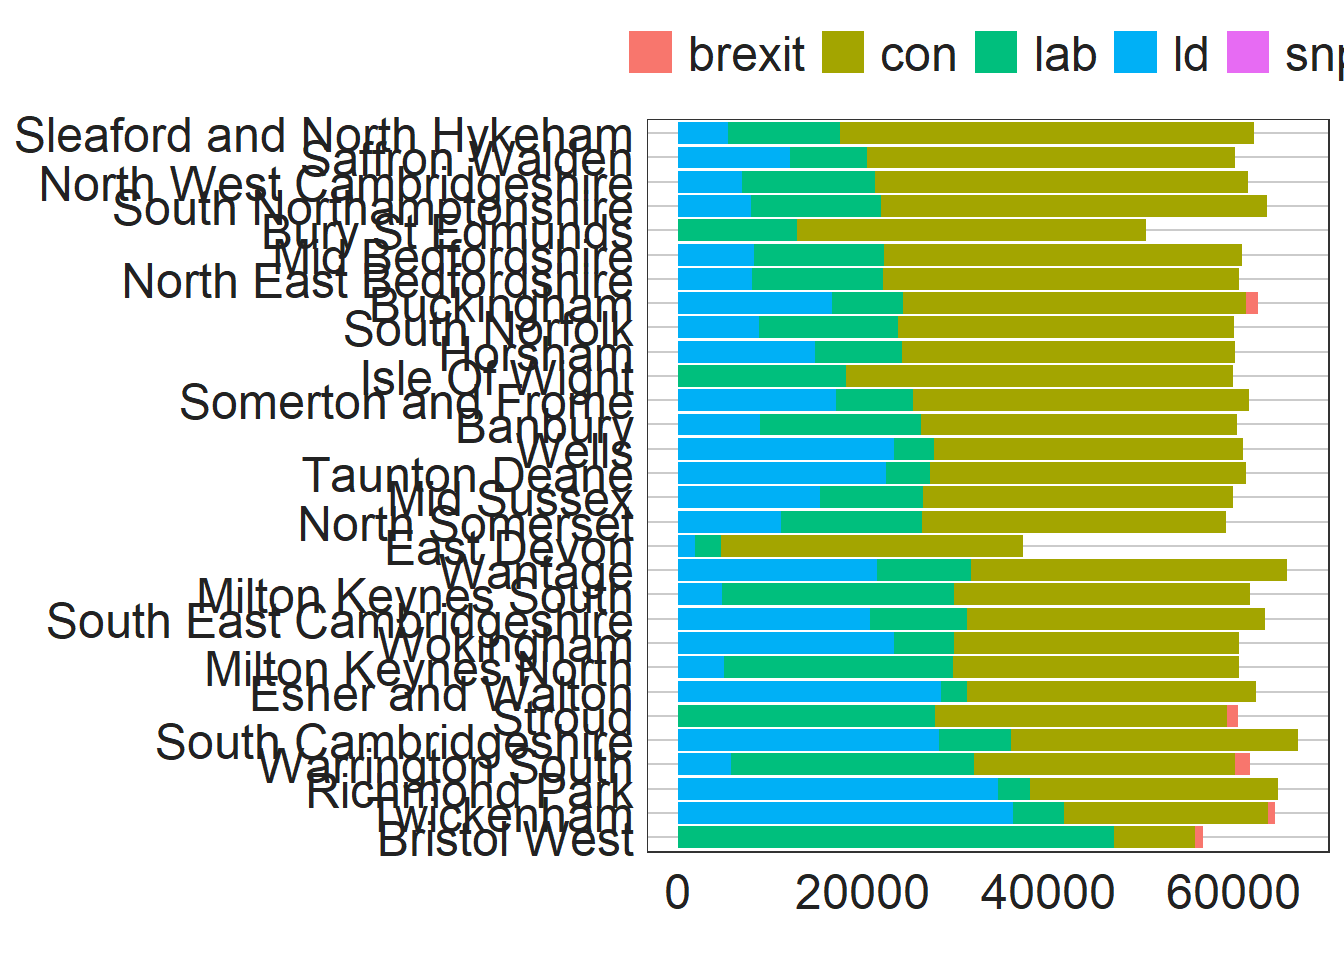
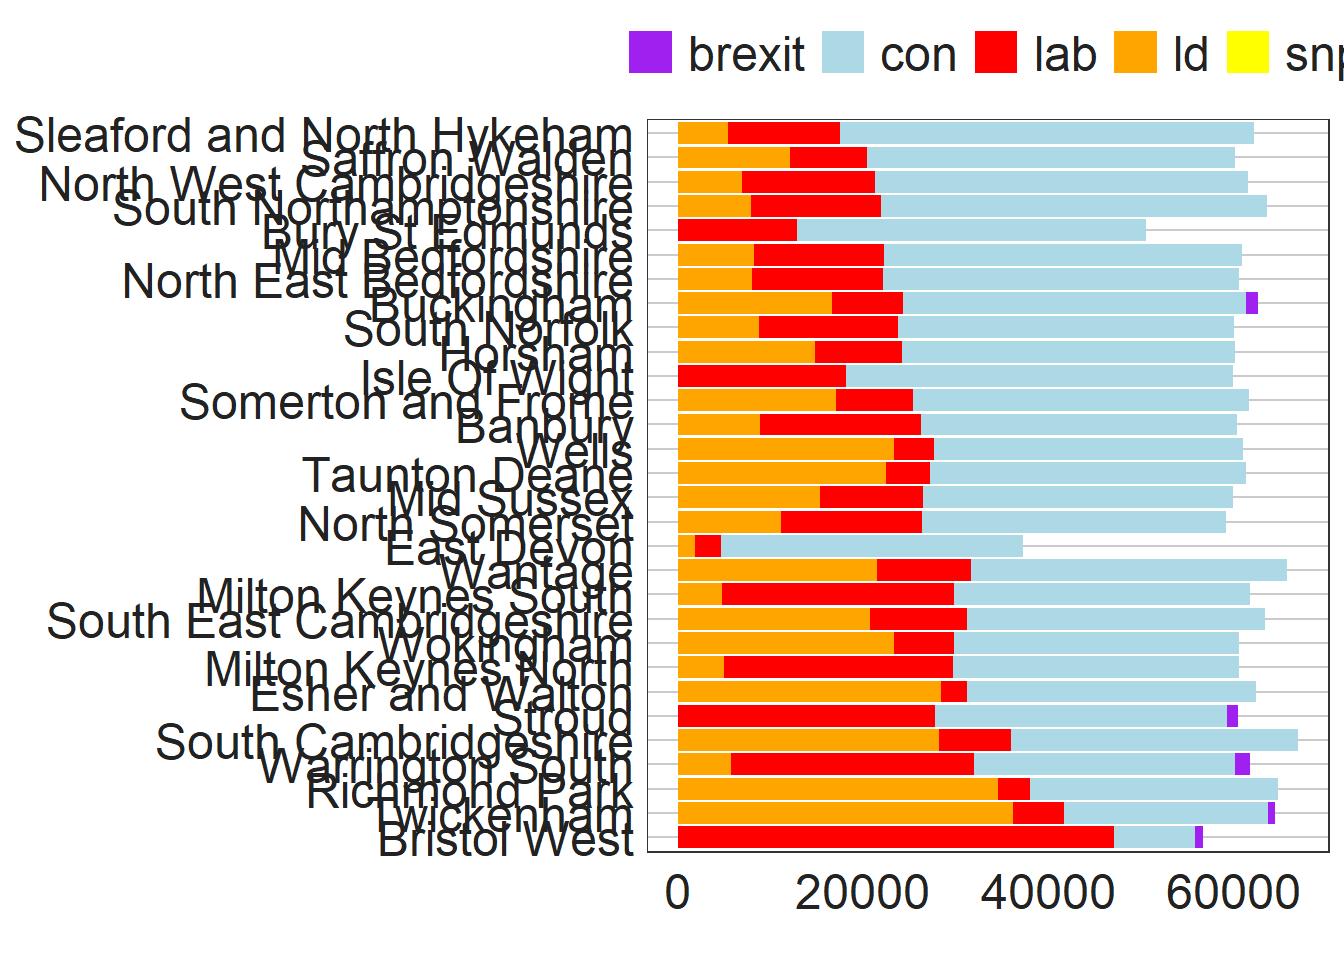
bbplot

diff --git a/public/2020/07/01/bbc-style-ggplot/index.html b/public/2020/07/01/bbc-style-ggplot/index.html
@@ -84,10 +84,8 @@
 
 
 <pre class="r"><code>knitr::opts_chunk$set(echo = TRUE)</code></pre>
-<div id="htmlwidget-1" style="width:672px;height:480px;" class="plotly html-widget"></div>
-<script type="application/json" data-for="htmlwidget-1">{"x":{"data":[{"x":[1,2,3,4,5],"y":[18.9833333333333,17.8666666666667,18.0166666666667,17.9,18.6666666666667],"text":["date: 13/05/2020<br />time: 18.98333<br />person: jack_time<br />person: jack_time","date: 14/05/2020<br />time: 17.86667<br />person: jack_time<br />person: jack_time","date: 15/05/2020<br />time: 18.01667<br />person: jack_time<br />person: jack_time","date: 21/05/2020<br />time: 17.90000<br />person: jack_time<br />person: jack_time","date: 26/05/2020<br />time: 18.66667<br />person: jack_time<br />person: jack_time"],"type":"scatter","mode":"lines","line":{"width":7.55905511811024,"color":"rgba(248,118,109,1)","dash":"solid"},"hoveron":"points","name":"jack_time","legendgroup":"jack_time","showlegend":true,"xaxis":"x","yaxis":"y","hoverinfo":"text","frame":null},{"x":[1,2,3,4,5],"y":[17.65,17.7333333333333,16.35,16.85,15.65],"text":["date: 13/05/2020<br />time: 17.65000<br />person: roy_time<br />person: roy_time","date: 14/05/2020<br />time: 17.73333<br />person: roy_time<br />person: roy_time","date: 15/05/2020<br />time: 16.35000<br />person: roy_time<br />person: roy_time","date: 21/05/2020<br />time: 16.85000<br />person: roy_time<br />person: roy_time","date: 26/05/2020<br />time: 15.65000<br />person: roy_time<br />person: roy_time"],"type":"scatter","mode":"lines","line":{"width":7.55905511811024,"color":"rgba(0,191,196,1)","dash":"solid"},"hoveron":"points","name":"roy_time","legendgroup":"roy_time","showlegend":true,"xaxis":"x","yaxis":"y","hoverinfo":"text","frame":null}],"layout":{"margin":{"t":63.4221668742217,"r":7.30593607305936,"b":37.7916147779162,"l":34.8692403486924},"paper_bgcolor":"rgba(255,255,255,1)","font":{"color":"rgba(0,0,0,1)","family":"","size":14.6118721461187},"title":{"text":"<b> Jack & Roy running times 1.6 mile <\/b>","font":{"color":"rgba(34,34,34,1)","family":"Helvetica","size":37.1938563719386},"x":0,"xref":"paper"},"xaxis":{"domain":[0,1],"automargin":true,"type":"linear","autorange":false,"range":[0.4,5.6],"tickmode":"array","ticktext":["13/05/2020","14/05/2020","15/05/2020","21/05/2020","26/05/2020"],"tickvals":[1,2,3,4,5],"categoryorder":"array","categoryarray":["13/05/2020","14/05/2020","15/05/2020","21/05/2020","26/05/2020"],"nticks":null,"ticks":"","tickcolor":null,"ticklen":3.65296803652968,"tickwidth":0,"showticklabels":true,"tickfont":{"color":"rgba(34,34,34,1)","family":"Helvetica","size":23.9103362391034},"tickangle":-0,"showline":false,"linecolor":null,"linewidth":0,"showgrid":false,"gridcolor":null,"gridwidth":0,"zeroline":false,"anchor":"y","title":{"text":"","font":{"color":null,"family":null,"size":0}},"hoverformat":".2f"},"yaxis":{"domain":[0,1],"automargin":true,"type":"linear","autorange":false,"range":[15.4833333333333,19.15],"tickmode":"array","ticktext":["16","17","18","19"],"tickvals":[16,17,18,19],"categoryorder":"array","categoryarray":["16","17","18","19"],"nticks":null,"ticks":"","tickcolor":null,"ticklen":3.65296803652968,"tickwidth":0,"showticklabels":true,"tickfont":{"color":"rgba(34,34,34,1)","family":"Helvetica","size":23.9103362391034},"tickangle":-0,"showline":false,"linecolor":null,"linewidth":0,"showgrid":true,"gridcolor":"rgba(203,203,203,1)","gridwidth":0.66417600664176,"zeroline":false,"anchor":"x","title":{"text":"","font":{"color":null,"family":null,"size":0}},"hoverformat":".2f"},"shapes":[{"type":"rect","fillcolor":"transparent","line":{"color":"rgba(51,51,51,1)","width":0.66417600664176,"linetype":"solid"},"yref":"paper","xref":"paper","x0":0,"x1":1,"y0":0,"y1":1}],"showlegend":true,"legend":{"bgcolor":null,"bordercolor":null,"borderwidth":0,"font":{"color":"rgba(34,34,34,1)","family":"Helvetica","size":23.9103362391034},"y":1},"hovermode":"closest","barmode":"relative"},"config":{"doubleClick":"reset","showSendToCloud":false},"source":"A","attrs":{"4f48493d2a17":{"x":{},"y":{},"colour":{},"type":"scatter"}},"cur_data":"4f48493d2a17","visdat":{"4f48493d2a17":["function (y) ","x"]},"highlight":{"on":"plotly_click","persistent":false,"dynamic":false,"selectize":false,"opacityDim":0.2,"selected":{"opacity":1},"debounce":0},"shinyEvents":["plotly_hover","plotly_click","plotly_selected","plotly_relayout","plotly_brushed","plotly_brushing","plotly_clickannotation","plotly_doubleclick","plotly_deselect","plotly_afterplot","plotly_sunburstclick"],"base_url":"https://plot.ly"},"evals":[],"jsHooks":[]}</script>
 <pre class="r"><code>library(tidyverse)
-setwd(&quot;~/University/R/election2019&quot;)
+#setwd(&quot;~/University/R/election2019&quot;)
 library(readr)
 election &lt;- read_csv(&quot;HoC-2019GE-results-by-constituency.csv&quot;) %&gt;% 
   mutate(con_p=con/valid_votes,
@@ -97,7 +95,7 @@ election &lt;- read_csv(&quot;HoC-2019GE-results-by-constituency.csv&quot;) %&gt
          snp_p=snp/valid_votes)</code></pre>
 <div id="voting-mix-of-the-most-populated-constituencies" class="section level3">
 <h3>Voting mix of the most populated constituencies</h3>
-<pre class="r"><code>#party_colours &lt;- c(&quot;purple&quot;, &quot;blue&quot;, )
+<pre class="r"><code>party_colours &lt;- c(&quot;purple&quot;, &quot;lightblue&quot;, &quot;red&quot;,&quot;orange&quot;,&quot;yellow&quot;)
 election %&gt;% 
   arrange(desc(valid_votes)) %&gt;% 
   mutate(constituency_name=fct_reorder(constituency_name,con_p)) %&gt;% 
@@ -105,6 +103,7 @@ election %&gt;%
   gather(key=&quot;Party&quot;, value=&quot;Number&quot;, con, lab, ld, snp, brexit) %&gt;% 
   ggplot(aes(constituency_name,Number,fill=Party))+
   geom_col()+
+  scale_fill_manual(values=party_colours)+
   coord_flip()+
   bbc_style()</code></pre>
 <pre><code>## Warning in grid.Call(C_stringMetric, as.graphicsAnnot(x$label)): font family not
@@ -120,6 +119,7 @@ election %&gt;%
   gather(key=&quot;Party&quot;, value=&quot;Number&quot;, con, lab, ld, snp, brexit) %&gt;% 
   ggplot(aes(constituency_name,Number,fill=Party))+
   geom_col()+
+  scale_fill_manual(values=party_colours)+
   coord_flip()+
   bbc_style()</code></pre>
 <pre><code>## Warning in grid.Call(C_textBounds, as.graphicsAnnot(x$label), x$x, x$y, : font
@@ -135,6 +135,7 @@ election %&gt;%
   gather(Party, Proportion, con_p, lab_p, ld_p, brexit_p, snp_p) %&gt;% 
   ggplot(aes(constituency_name,Proportion, fill = Party))+
   geom_col()+
+  scale_fill_manual(values=party_colours)+
   scale_y_continuous(label=scales::percent_format()) +
   coord_flip()+
   bbc_style()</code></pre>
@@ -146,6 +147,7 @@ election %&gt;%
   gather(Party, Proportion, con_p, lab_p, snp_p, brexit_p, ld_p) %&gt;% 
   ggplot(aes(constituency_name, Proportion, fill = Party)) +
   geom_col()+
+  scale_fill_manual(values=party_colours)+
   labs(
     x=&quot;&quot;,
     y=&quot;Vote Share&quot;
@@ -155,6 +157,25 @@ election %&gt;%
 <pre><code>## Warning in grid.Call(C_textBounds, as.graphicsAnnot(x$label), x$x, x$y, : font
 ## family not found in Windows font database</code></pre>
 <p><img src="/post/2020-07-01-bbc-style-ggplot_files/figure-html/unnamed-chunk-7-1.png" width="672" /></p>
+<p>Reordering by voteshare</p>
+<pre class="r"><code>election %&gt;% 
+  view()
+election %&gt;% 
+  mutate(constituency_name=fct_reorder(constituency_name, -con_p)) %&gt;% 
+  arrange(con_p) %&gt;% 
+  gather(Party, Proportion, con_p, lab_p, snp_p, brexit_p, ld_p) %&gt;% 
+  ggplot(aes(constituency_name, Proportion, fill = Party)) +
+  geom_col()+
+  scale_fill_manual(values=party_colours)+
+  labs(
+    x=&quot;&quot;,
+    y=&quot;Vote Share&quot;
+  )+
+ bbc_style()+
+  theme(axis.text.x = element_blank())</code></pre>
+<pre><code>## Warning in grid.Call(C_textBounds, as.graphicsAnnot(x$label), x$x, x$y, : font
+## family not found in Windows font database</code></pre>
+<p><img src="/post/2020-07-01-bbc-style-ggplot_files/figure-html/unnamed-chunk-8-1.png" width="672" /></p>
 <pre class="r"><code>election %&gt;% 
   ggplot(aes(con_p)) +
   geom_histogram()+
@@ -162,13 +183,13 @@ election %&gt;%
 <pre><code>## `stat_bin()` using `bins = 30`. Pick better value with `binwidth`.</code></pre>
 <pre><code>## Warning in grid.Call(C_textBounds, as.graphicsAnnot(x$label), x$x, x$y, : font
 ## family not found in Windows font database</code></pre>
-<p><img src="/post/2020-07-01-bbc-style-ggplot_files/figure-html/unnamed-chunk-8-1.png" width="672" /></p>
+<p><img src="/post/2020-07-01-bbc-style-ggplot_files/figure-html/unnamed-chunk-9-1.png" width="672" /></p>
 <pre class="r"><code>election %&gt;% 
   ggplot(aes(lab_p))+
   geom_histogram()+
   bbc_style()</code></pre>
 <pre><code>## `stat_bin()` using `bins = 30`. Pick better value with `binwidth`.</code></pre>
-<p><img src="/post/2020-07-01-bbc-style-ggplot_files/figure-html/unnamed-chunk-8-2.png" width="672" /></p>
+<p><img src="/post/2020-07-01-bbc-style-ggplot_files/figure-html/unnamed-chunk-9-2.png" width="672" /></p>
 <pre class="r"><code>election_noscotland &lt;- election %&gt;% 
   filter(!country_name==&quot;Scotland&quot;)
   

diff --git a/content/post/2020-07-01-bbc-style-ggplot.html b/content/post/2020-07-01-bbc-style-ggplot.html
@@ -18,10 +18,8 @@ tags: []
 
 
 <pre class="r"><code>knitr::opts_chunk$set(echo = TRUE)</code></pre>
-<div id="htmlwidget-1" style="width:672px;height:480px;" class="plotly html-widget"></div>
-<script type="application/json" data-for="htmlwidget-1">{"x":{"data":[{"x":[1,2,3,4,5],"y":[18.9833333333333,17.8666666666667,18.0166666666667,17.9,18.6666666666667],"text":["date: 13/05/2020<br />time: 18.98333<br />person: jack_time<br />person: jack_time","date: 14/05/2020<br />time: 17.86667<br />person: jack_time<br />person: jack_time","date: 15/05/2020<br />time: 18.01667<br />person: jack_time<br />person: jack_time","date: 21/05/2020<br />time: 17.90000<br />person: jack_time<br />person: jack_time","date: 26/05/2020<br />time: 18.66667<br />person: jack_time<br />person: jack_time"],"type":"scatter","mode":"lines","line":{"width":7.55905511811024,"color":"rgba(248,118,109,1)","dash":"solid"},"hoveron":"points","name":"jack_time","legendgroup":"jack_time","showlegend":true,"xaxis":"x","yaxis":"y","hoverinfo":"text","frame":null},{"x":[1,2,3,4,5],"y":[17.65,17.7333333333333,16.35,16.85,15.65],"text":["date: 13/05/2020<br />time: 17.65000<br />person: roy_time<br />person: roy_time","date: 14/05/2020<br />time: 17.73333<br />person: roy_time<br />person: roy_time","date: 15/05/2020<br />time: 16.35000<br />person: roy_time<br />person: roy_time","date: 21/05/2020<br />time: 16.85000<br />person: roy_time<br />person: roy_time","date: 26/05/2020<br />time: 15.65000<br />person: roy_time<br />person: roy_time"],"type":"scatter","mode":"lines","line":{"width":7.55905511811024,"color":"rgba(0,191,196,1)","dash":"solid"},"hoveron":"points","name":"roy_time","legendgroup":"roy_time","showlegend":true,"xaxis":"x","yaxis":"y","hoverinfo":"text","frame":null}],"layout":{"margin":{"t":63.4221668742217,"r":7.30593607305936,"b":37.7916147779162,"l":34.8692403486924},"paper_bgcolor":"rgba(255,255,255,1)","font":{"color":"rgba(0,0,0,1)","family":"","size":14.6118721461187},"title":{"text":"<b> Jack & Roy running times 1.6 mile <\/b>","font":{"color":"rgba(34,34,34,1)","family":"Helvetica","size":37.1938563719386},"x":0,"xref":"paper"},"xaxis":{"domain":[0,1],"automargin":true,"type":"linear","autorange":false,"range":[0.4,5.6],"tickmode":"array","ticktext":["13/05/2020","14/05/2020","15/05/2020","21/05/2020","26/05/2020"],"tickvals":[1,2,3,4,5],"categoryorder":"array","categoryarray":["13/05/2020","14/05/2020","15/05/2020","21/05/2020","26/05/2020"],"nticks":null,"ticks":"","tickcolor":null,"ticklen":3.65296803652968,"tickwidth":0,"showticklabels":true,"tickfont":{"color":"rgba(34,34,34,1)","family":"Helvetica","size":23.9103362391034},"tickangle":-0,"showline":false,"linecolor":null,"linewidth":0,"showgrid":false,"gridcolor":null,"gridwidth":0,"zeroline":false,"anchor":"y","title":{"text":"","font":{"color":null,"family":null,"size":0}},"hoverformat":".2f"},"yaxis":{"domain":[0,1],"automargin":true,"type":"linear","autorange":false,"range":[15.4833333333333,19.15],"tickmode":"array","ticktext":["16","17","18","19"],"tickvals":[16,17,18,19],"categoryorder":"array","categoryarray":["16","17","18","19"],"nticks":null,"ticks":"","tickcolor":null,"ticklen":3.65296803652968,"tickwidth":0,"showticklabels":true,"tickfont":{"color":"rgba(34,34,34,1)","family":"Helvetica","size":23.9103362391034},"tickangle":-0,"showline":false,"linecolor":null,"linewidth":0,"showgrid":true,"gridcolor":"rgba(203,203,203,1)","gridwidth":0.66417600664176,"zeroline":false,"anchor":"x","title":{"text":"","font":{"color":null,"family":null,"size":0}},"hoverformat":".2f"},"shapes":[{"type":"rect","fillcolor":"transparent","line":{"color":"rgba(51,51,51,1)","width":0.66417600664176,"linetype":"solid"},"yref":"paper","xref":"paper","x0":0,"x1":1,"y0":0,"y1":1}],"showlegend":true,"legend":{"bgcolor":null,"bordercolor":null,"borderwidth":0,"font":{"color":"rgba(34,34,34,1)","family":"Helvetica","size":23.9103362391034},"y":1},"hovermode":"closest","barmode":"relative"},"config":{"doubleClick":"reset","showSendToCloud":false},"source":"A","attrs":{"4f48493d2a17":{"x":{},"y":{},"colour":{},"type":"scatter"}},"cur_data":"4f48493d2a17","visdat":{"4f48493d2a17":["function (y) ","x"]},"highlight":{"on":"plotly_click","persistent":false,"dynamic":false,"selectize":false,"opacityDim":0.2,"selected":{"opacity":1},"debounce":0},"shinyEvents":["plotly_hover","plotly_click","plotly_selected","plotly_relayout","plotly_brushed","plotly_brushing","plotly_clickannotation","plotly_doubleclick","plotly_deselect","plotly_afterplot","plotly_sunburstclick"],"base_url":"https://plot.ly"},"evals":[],"jsHooks":[]}</script>
 <pre class="r"><code>library(tidyverse)
-setwd(&quot;~/University/R/election2019&quot;)
+#setwd(&quot;~/University/R/election2019&quot;)
 library(readr)
 election &lt;- read_csv(&quot;HoC-2019GE-results-by-constituency.csv&quot;) %&gt;% 
   mutate(con_p=con/valid_votes,
@@ -31,7 +29,7 @@ election &lt;- read_csv(&quot;HoC-2019GE-results-by-constituency.csv&quot;) %&gt
          snp_p=snp/valid_votes)</code></pre>
 <div id="voting-mix-of-the-most-populated-constituencies" class="section level3">
 <h3>Voting mix of the most populated constituencies</h3>
-<pre class="r"><code>#party_colours &lt;- c(&quot;purple&quot;, &quot;blue&quot;, )
+<pre class="r"><code>party_colours &lt;- c(&quot;purple&quot;, &quot;lightblue&quot;, &quot;red&quot;,&quot;orange&quot;,&quot;yellow&quot;)
 election %&gt;% 
   arrange(desc(valid_votes)) %&gt;% 
   mutate(constituency_name=fct_reorder(constituency_name,con_p)) %&gt;% 
@@ -39,6 +37,7 @@ election %&gt;%
   gather(key=&quot;Party&quot;, value=&quot;Number&quot;, con, lab, ld, snp, brexit) %&gt;% 
   ggplot(aes(constituency_name,Number,fill=Party))+
   geom_col()+
+  scale_fill_manual(values=party_colours)+
   coord_flip()+
   bbc_style()</code></pre>
 <pre><code>## Warning in grid.Call(C_stringMetric, as.graphicsAnnot(x$label)): font family not
@@ -54,6 +53,7 @@ election %&gt;%
   gather(key=&quot;Party&quot;, value=&quot;Number&quot;, con, lab, ld, snp, brexit) %&gt;% 
   ggplot(aes(constituency_name,Number,fill=Party))+
   geom_col()+
+  scale_fill_manual(values=party_colours)+
   coord_flip()+
   bbc_style()</code></pre>
 <pre><code>## Warning in grid.Call(C_textBounds, as.graphicsAnnot(x$label), x$x, x$y, : font
@@ -69,6 +69,7 @@ election %&gt;%
   gather(Party, Proportion, con_p, lab_p, ld_p, brexit_p, snp_p) %&gt;% 
   ggplot(aes(constituency_name,Proportion, fill = Party))+
   geom_col()+
+  scale_fill_manual(values=party_colours)+
   scale_y_continuous(label=scales::percent_format()) +
   coord_flip()+
   bbc_style()</code></pre>
@@ -80,6 +81,7 @@ election %&gt;%
   gather(Party, Proportion, con_p, lab_p, snp_p, brexit_p, ld_p) %&gt;% 
   ggplot(aes(constituency_name, Proportion, fill = Party)) +
   geom_col()+
+  scale_fill_manual(values=party_colours)+
   labs(
     x=&quot;&quot;,
     y=&quot;Vote Share&quot;
@@ -89,6 +91,25 @@ election %&gt;%
 <pre><code>## Warning in grid.Call(C_textBounds, as.graphicsAnnot(x$label), x$x, x$y, : font
 ## family not found in Windows font database</code></pre>
 <p><img src="/post/2020-07-01-bbc-style-ggplot_files/figure-html/unnamed-chunk-7-1.png" width="672" /></p>
+<p>Reordering by voteshare</p>
+<pre class="r"><code>election %&gt;% 
+  view()
+election %&gt;% 
+  mutate(constituency_name=fct_reorder(constituency_name, -con_p)) %&gt;% 
+  arrange(con_p) %&gt;% 
+  gather(Party, Proportion, con_p, lab_p, snp_p, brexit_p, ld_p) %&gt;% 
+  ggplot(aes(constituency_name, Proportion, fill = Party)) +
+  geom_col()+
+  scale_fill_manual(values=party_colours)+
+  labs(
+    x=&quot;&quot;,
+    y=&quot;Vote Share&quot;
+  )+
+ bbc_style()+
+  theme(axis.text.x = element_blank())</code></pre>
+<pre><code>## Warning in grid.Call(C_textBounds, as.graphicsAnnot(x$label), x$x, x$y, : font
+## family not found in Windows font database</code></pre>
+<p><img src="/post/2020-07-01-bbc-style-ggplot_files/figure-html/unnamed-chunk-8-1.png" width="672" /></p>
 <pre class="r"><code>election %&gt;% 
   ggplot(aes(con_p)) +
   geom_histogram()+
@@ -96,13 +117,13 @@ election %&gt;%
 <pre><code>## `stat_bin()` using `bins = 30`. Pick better value with `binwidth`.</code></pre>
 <pre><code>## Warning in grid.Call(C_textBounds, as.graphicsAnnot(x$label), x$x, x$y, : font
 ## family not found in Windows font database</code></pre>
-<p><img src="/post/2020-07-01-bbc-style-ggplot_files/figure-html/unnamed-chunk-8-1.png" width="672" /></p>
+<p><img src="/post/2020-07-01-bbc-style-ggplot_files/figure-html/unnamed-chunk-9-1.png" width="672" /></p>
 <pre class="r"><code>election %&gt;% 
   ggplot(aes(lab_p))+
   geom_histogram()+
   bbc_style()</code></pre>
 <pre><code>## `stat_bin()` using `bins = 30`. Pick better value with `binwidth`.</code></pre>
-<p><img src="/post/2020-07-01-bbc-style-ggplot_files/figure-html/unnamed-chunk-8-2.png" width="672" /></p>
+<p><img src="/post/2020-07-01-bbc-style-ggplot_files/figure-html/unnamed-chunk-9-2.png" width="672" /></p>
 <pre class="r"><code>election_noscotland &lt;- election %&gt;% 
   filter(!country_name==&quot;Scotland&quot;)
   
